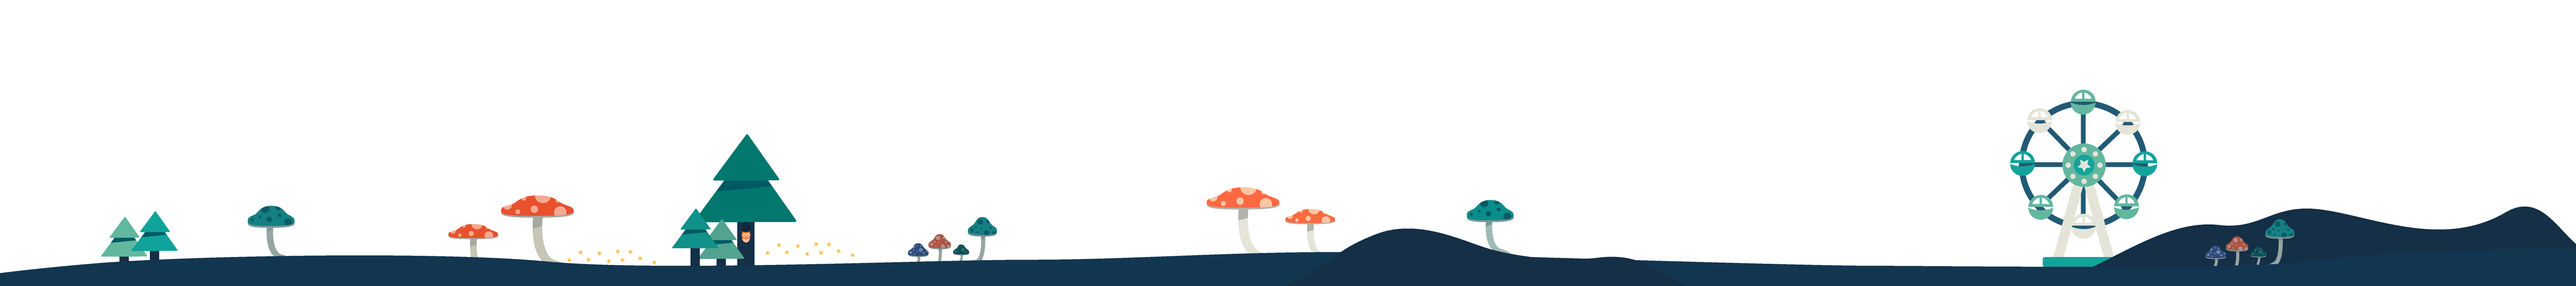
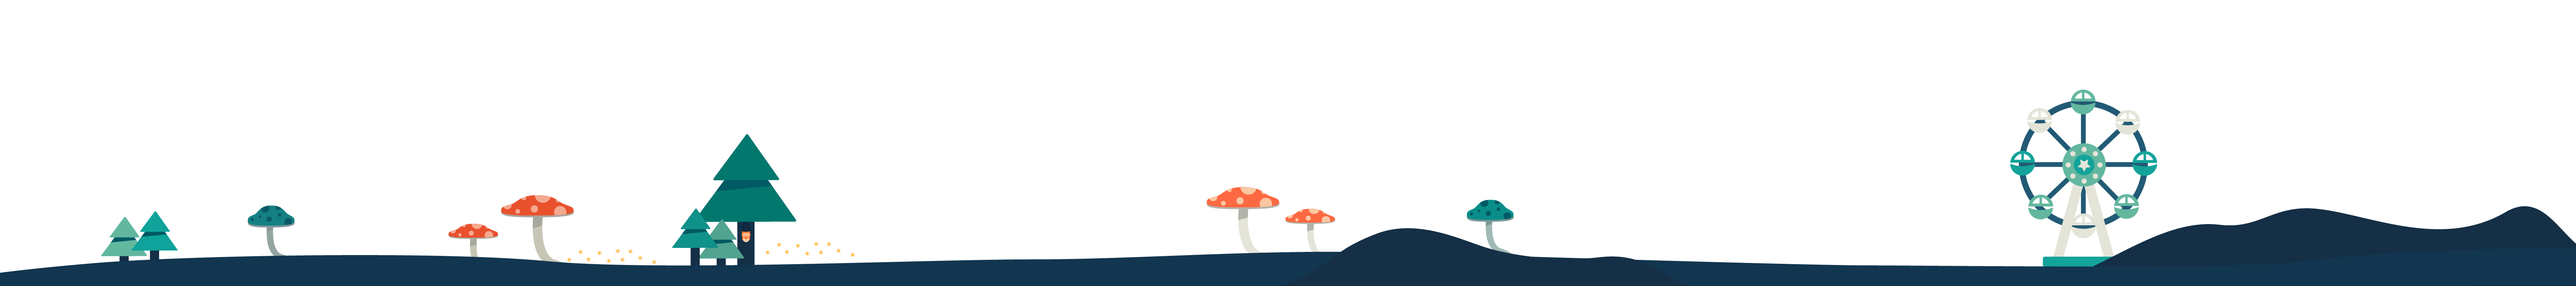
Mond und Hintergrund, Vordergrund, Wolken angepasst

diff --git a/6-endless-canvas/sketch1.js b/6-endless-canvas/sketch1.js
@@ -25,9 +25,9 @@ let sparkleTrail = [];
 let swarmHistory = [];
 
 function preload() {
-	backgroundSound = loadSound('glitz.Sound.mp3');
+	backgroundSound = loadSound("glitz.Sound.mp3");
 	Heißluftballon = loadImage("Heißluftballon.png");
-	Mond = loadImage("Mond.png");
+	Mond = loadImage("Mond-groß.png");
 }
 
 // das ist die Dimension des kompletten Levels
@@ -43,7 +43,9 @@ function setup() {
 	engine = Engine.create();
 	world = engine.world;
 
-	new BlocksFromSVG(world, "Achterbahn-Strecke.svg", blocks, { isStatic: true });
+	new BlocksFromSVG(world, "Achterbahn-Strecke.svg", blocks, {
+		isStatic: true,
+	});
 	//new BlocksFromSVG(world, "Heißluftballon.svg", blocks, { isStatic: true });
 
 	// the ball has a label and can react on collisions
@@ -58,8 +60,8 @@ function setup() {
 			frictionAir: 0.0,
 			collisionFilter: {
 				category: 0b0001,
-				mask: 0b0001
-			}
+				mask: 0b0001,
+			},
 		}
 	);
 	blocks.push(murmel);
@@ -196,52 +198,70 @@ function setup() {
 		});
 	});
 
-	//Looping linke seite 
+	//Looping linke seite
 	const openLeft = new PolygonFromSVG(
-		world, {
-		fromFile: 'Achterbahn-Looping-links.svg',
-		color: '#638781',
-		stroke: '#638781', // hides the gaps
-		xweight: 0.0
-	}, {
-		isStatic: true, friction: 0.0,
-		collisionFilter: {
-			category: 0b0010
+		world,
+		{
+			fromFile: "Achterbahn-Looping-links.svg",
+			color: "#638781",
+			stroke: "#638781", // hides the gaps
+			xweight: 0.0,
+		},
+		{
+			isStatic: true,
+			friction: 0.0,
+			collisionFilter: {
+				category: 0b0010,
+			},
 		}
-	});
+	);
 	blocks.push(openLeft);
-	console.log(openLeft)
+	console.log(openLeft);
 
 	//rechte seite Looping
 	const openRight = new PolygonFromSVG(
-		world, {
-		fromFile: 'Achterbahn-Looping-rechts.svg',
-		color: '#638781',
-		stroke: '#638781', // hides the gaps
-	}, {
-		isStatic: true, friction: 0.0,
-		collisionFilter: {
-			category: 0b0001
+		world,
+		{
+			fromFile: "Achterbahn-Looping-rechts.svg",
+			color: "#638781",
+			stroke: "#638781", // hides the gaps
+		},
+		{
+			isStatic: true,
+			friction: 0.0,
+			collisionFilter: {
+				category: 0b0001,
+			},
 		}
-	});
+	);
 	blocks.push(openRight);
 
 	// the box closes openLeft and opens openRight, hier wird getriggert
-	blocks.push(new BlockCore(world,
-		{
-			x: 1800, y: 400, w: 600, h: 50, color: 'yellow',
-			trigger: (ball, block) => {
-				ball.attributes.color = color(Math.random() * 256, Math.random() * 256, Math.random() * 256);
-				openLeft.body.collisionFilter.category = 0b0001;
-				openRight.body.collisionFilter.category = 0b0010;
-			}
-		},
-		{ isStatic: true, isSensor: true }
-	));
+	blocks.push(
+		new BlockCore(
+			world,
+			{
+				x: 1800,
+				y: 400,
+				w: 600,
+				h: 50,
+				color: "yellow",
+				trigger: (ball, block) => {
+					ball.attributes.color = color(
+						Math.random() * 256,
+						Math.random() * 256,
+						Math.random() * 256
+					);
+					openLeft.body.collisionFilter.category = 0b0001;
+					openRight.body.collisionFilter.category = 0b0010;
+				},
+			},
+			{ isStatic: true, isSensor: true }
+		)
+	);
 
 	// run the engine
 	Runner.run(engine);
-
 }
 
 function scrollEndless(point) {
@@ -291,28 +311,29 @@ function drawSparkle(x, y) {
 		fill(255, 255, 255, alphaValue);
 		noStroke();
 		ellipse(sparkleTrail[i].x, sparkleTrail[i].y, sparkleSize, sparkleSize);
-
 	}
 	sparkleTrail.push({ x: x, y: y });
 	if (sparkleTrail.length > 60) {
 		sparkleTrail.splice(0, 1);
 	}
 }
-let lastPos = { x: 0, y: 0 }
+let lastPos = { x: 0, y: 0 };
 
 function draw() {
 	clear();
 
-	if (lastPos.x - murmel.body.position.x > 1 || lastPos.y - murmel.body.position.y > 1) {
+	if (
+		lastPos.x - murmel.body.position.x > 1 ||
+		lastPos.y - murmel.body.position.y > 1
+	) {
 		backgroundSound.play();
-		console.log('PLAY')
+		console.log("PLAY");
 	} else {
 		backgroundSound.stop();
-		console.log('STOP')
-
+		console.log("STOP");
 	}
-	lastPos = { ...murmel.body.position }
-	lastPos = { ...murmel.body.position }
+	lastPos = { ...murmel.body.position };
+	lastPos = { ...murmel.body.position };
 	// position canvas and translate coordinates
 	scrollEndless(murmel.body.position);
 
@@ -331,7 +352,6 @@ function draw() {
 		swarmHistory.splice(0, 1);
 	}
 	drawSparkle(murmel.body.position.x, murmel.body.position.y);
-
 
 	// animate attracted blocks
 	blocks.forEach((block) => block.draw());
